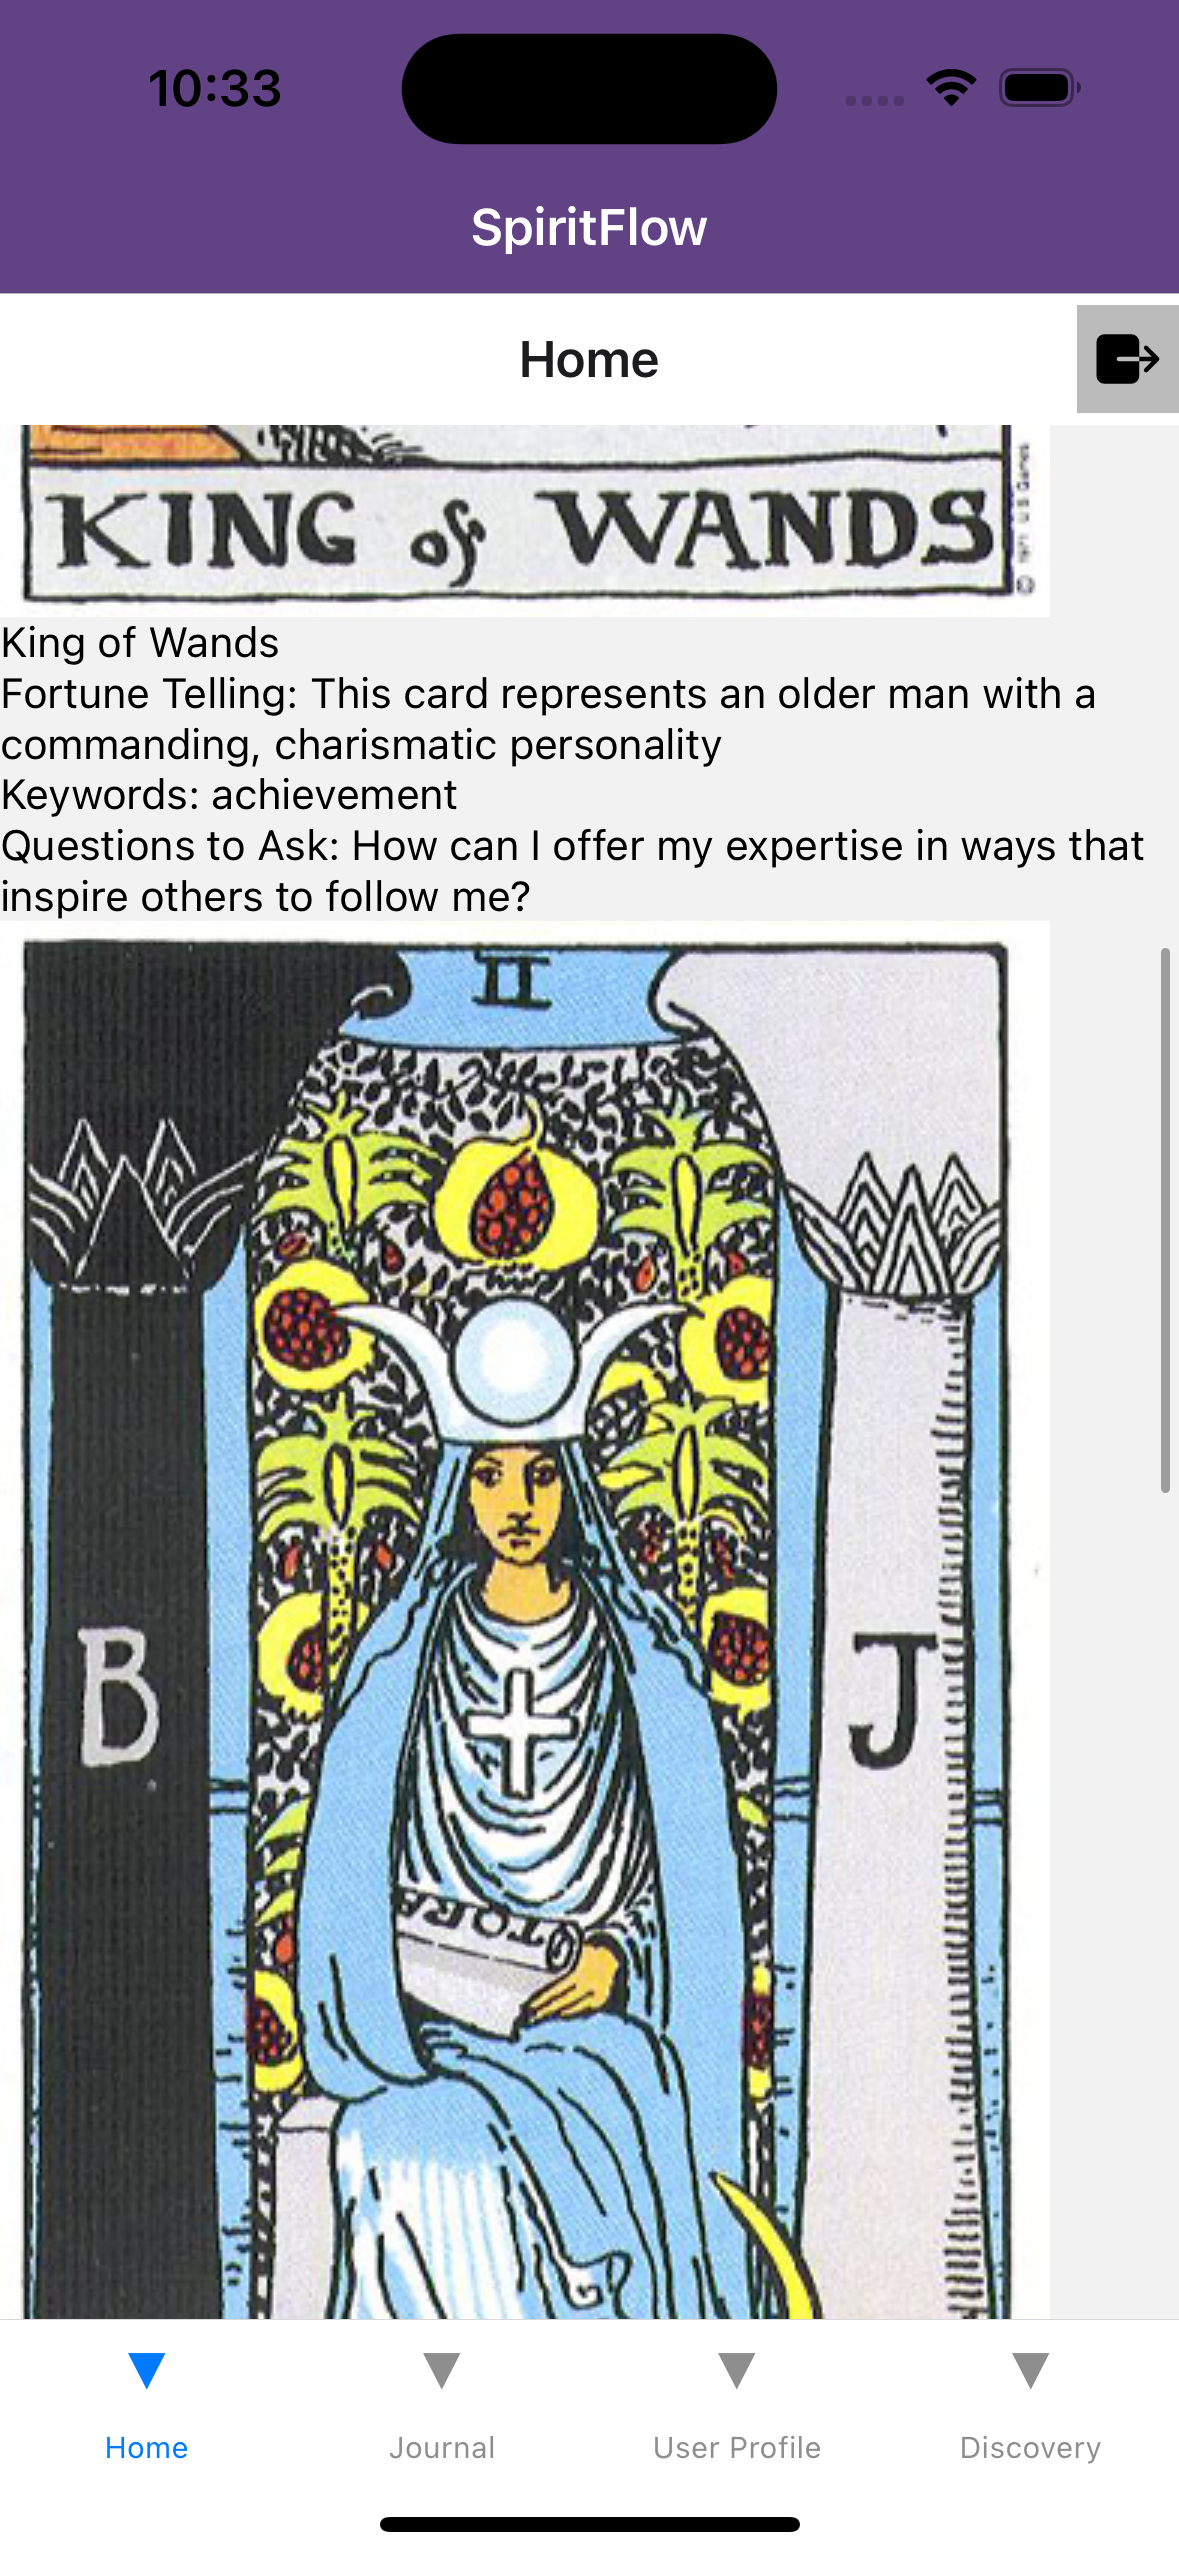
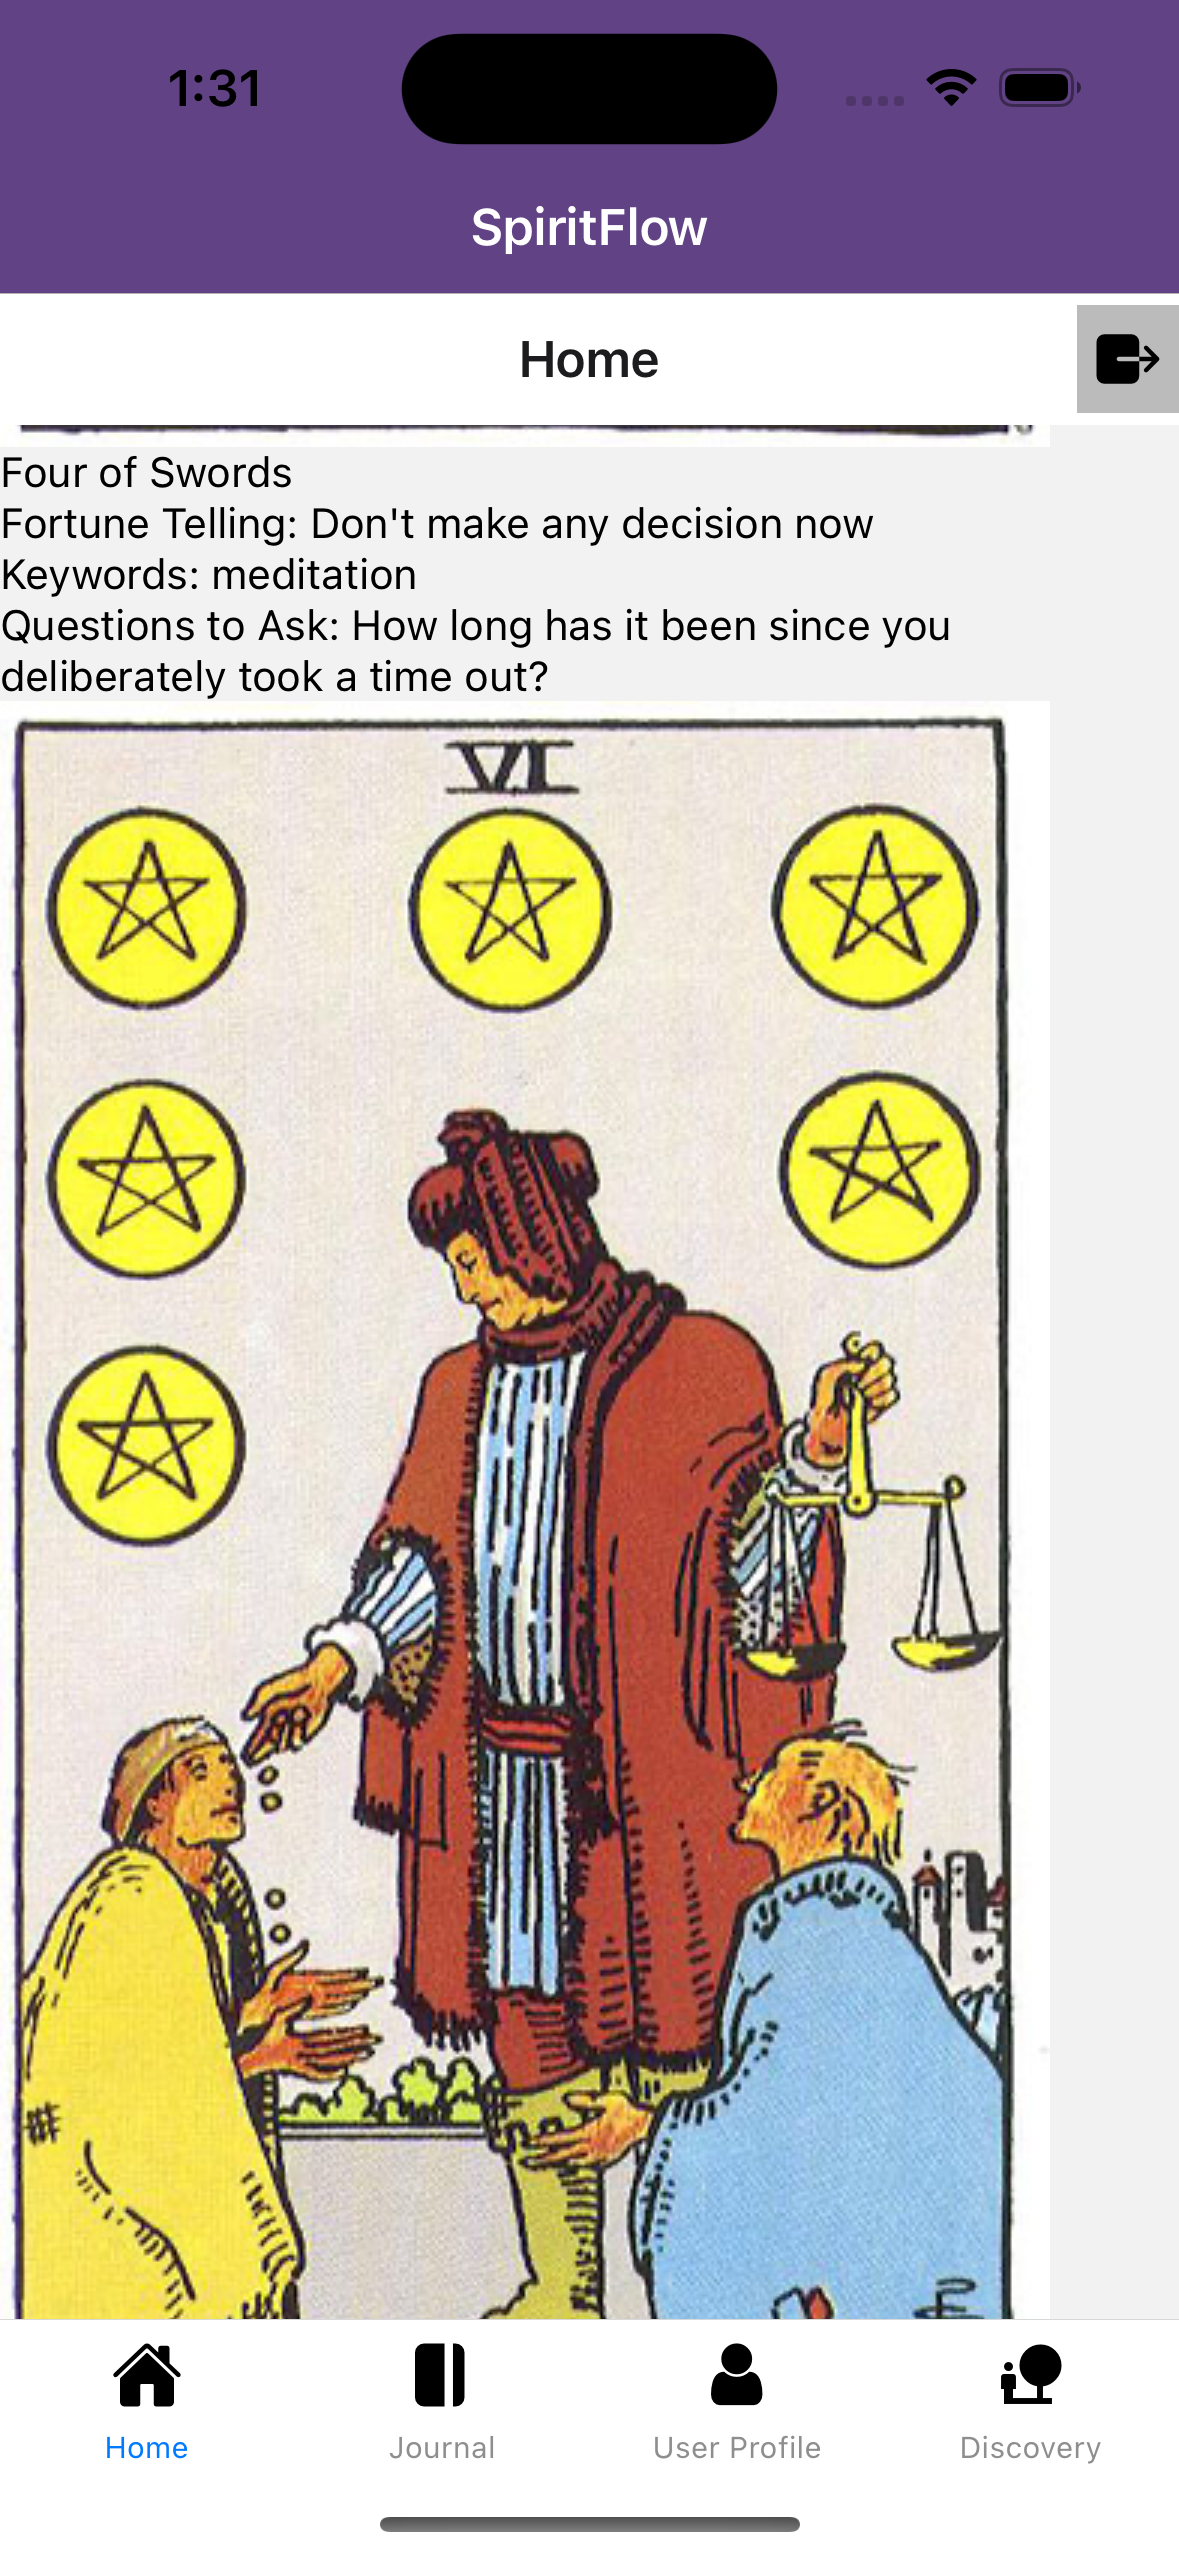
update screenshots, update readme

diff --git a/README.md b/README.md
@@ -1,4 +1,4 @@
-Iteration 1 / 2
+Iteration 1 / 2 / 3
 
 Members: Judy Wang, Yingying Feng
 
@@ -9,7 +9,16 @@ In addition, our app goes beyond readings and offers personalized movie recommen
 
 
 Contributions:
-Create React Native components to represent the functionality of the app we are building, designed and implemented the SignUp, Login page, Authentification as well as the User Profile page, including the camera function in user profile page(Contributed by Yingying), designed and implemented the Home, Journal, AddNewJournal, Discovery, firestore Database, and the map location function(Contributed by Judy). Worked on other files together.
+Create React Native components to represent the functionality of the app we are building, designed and implemented the SignUp, Login page, Authentification as well as the User Profile page, including the camera function in user profile page, desined and implemented the styles for the app(Contributed by Yingying), designed and implemented the Home, Journal, AddNewJournal, Discovery page, firestore Database, and the map location function as well as the notification function(Contributed by Judy). Worked on other files together.
+
+Contributions for Iter3:
+Judy:
+   - Work on the notification function;
+   - Add a linear graph in the Journal Page
+   - Add icons for buttons on buttom tab
+Yingying:
+   - Design and improve the overall appearance of the app
+   - Add logout button on every single page so that user can logout anytime they want without going back to home page.
 
 
 Iteration divided:
@@ -79,10 +88,6 @@ editJournal(journalId, updatedJournal)
 
 ==================================================================================================================
 
-Authentication
-
-==================================================================================================================
-
 External API use
 
 Our application leverages the OMDb API (https://www.omdbapi.com/) to fetch movie recommendations based on keywords generated from three tarot cards. The process involves the following steps:
@@ -122,7 +127,6 @@ In the "Add New Journal" feature, location services play a crucial role in enric
 Location Options:
 Users are presented with two location options:
 "Locate Me": Retrieves the real-time location of the user.
-"Let Me Choose on the Map": Allows users to manually select a desired location.
 
 
 Integration with Firestore:
@@ -131,13 +135,14 @@ The chosen location information is then incorporated into the journal object bef
 The 'Discovery' screen offers a panoramic view of journals created by users, each uniquely marked by location pins. The pins, distinguished by colors, discreetly reveal the energy level (ranging from black for level 1 to red for level 5) associated with each journal. This curated glimpse into shared experiences maintains user privacy by anonymously displaying only the energy levels at specific locations, fostering a sense of community without divulging detailed journal content.
 
 -Status: "Locate Me" Fully functioning
--Status: "Let me choose on the map" partially functioning
 
 ==================================================================================================================
 
 Notification
-(To be Done in next iteration)
 
+In Home Page, the button "CLick for Daily Inspiration at 9AM!" allows users to click to set the daily 9 a.m. reminder.
+
+-Status: Fully functioning
 ==================================================================================================================
 
 
@@ -153,25 +158,24 @@ ScreenShot:
    ![Alt text](SignIn2.png)
 
 
-3. Home
-   ![Alt text](Home.png) 
+3. Home (with notification)
+   ![Alt text](Home.png)
    ![Alt text](Home2.png) 
    ![Alt text](Home3.png) 
    ![Alt text](Home4.png)
-
+   ![Alt text](<Home notification.png>) 
+   ![Alt text](<Notification Screenshot.jpg>)
 
 4. UserProfile (with camera)
-   ![Alt text](UserProfile.png) 
-   ![Alt text](UserProfile2.png)
+   ![Alt text](UserProfile.png)
+   ![Alt text](UserProfile2.png) 
    ![Alt text](Camera1.jpg) 
    ![Alt text](Camera2.jpg) 
    ![Alt text](Camera3.jpg)
 
 
 5. Journal
-   ![Alt text](Journal.png) 
-   ![Alt text](Journal2.png)
-
+   ![Alt text](Journal.png)
 
    
 6. AddNewJournal (with location)
